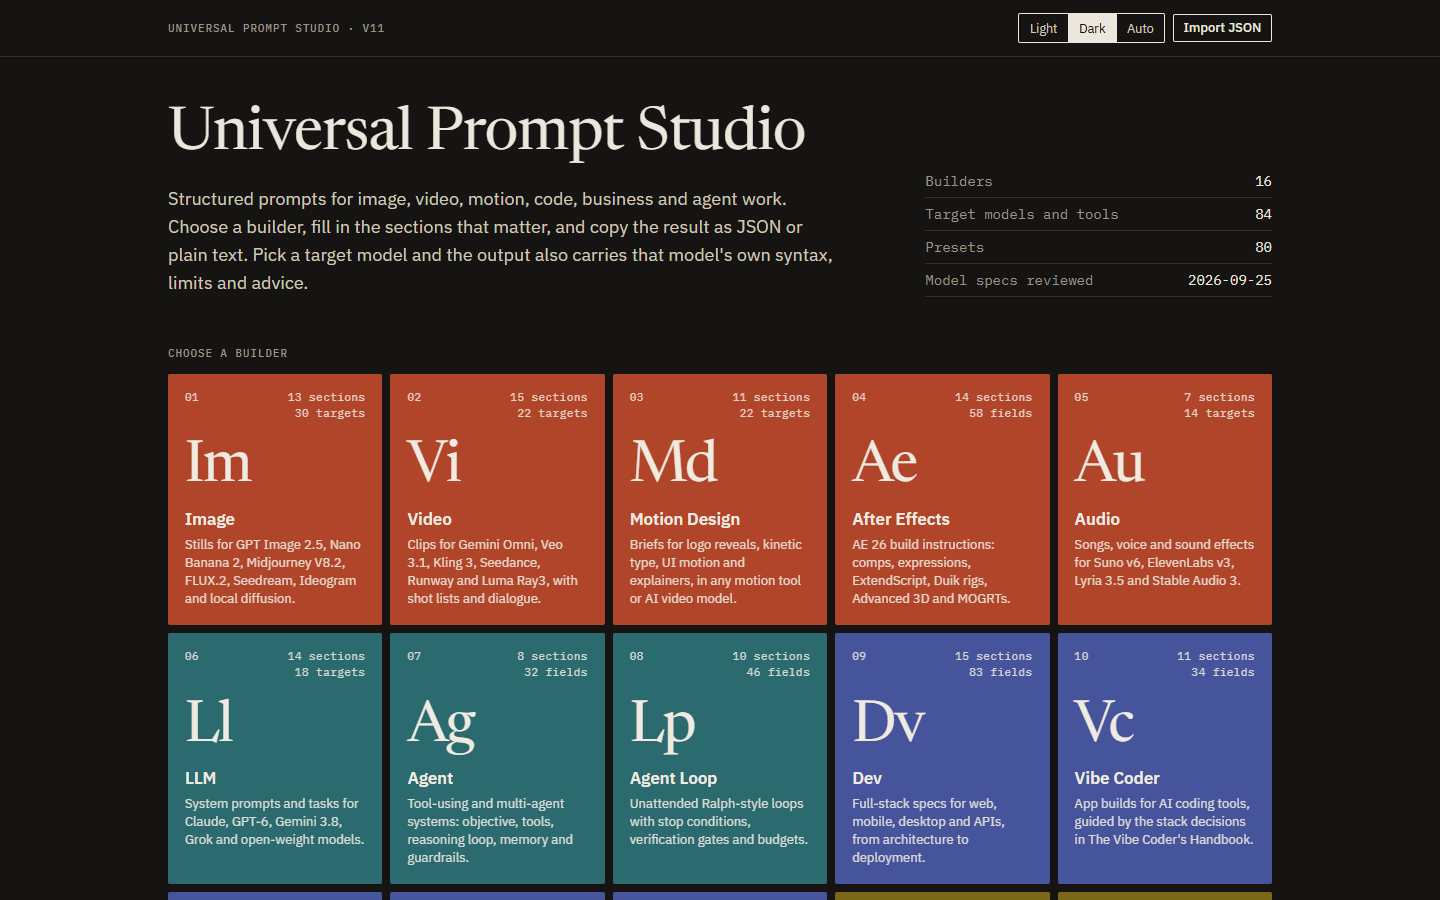
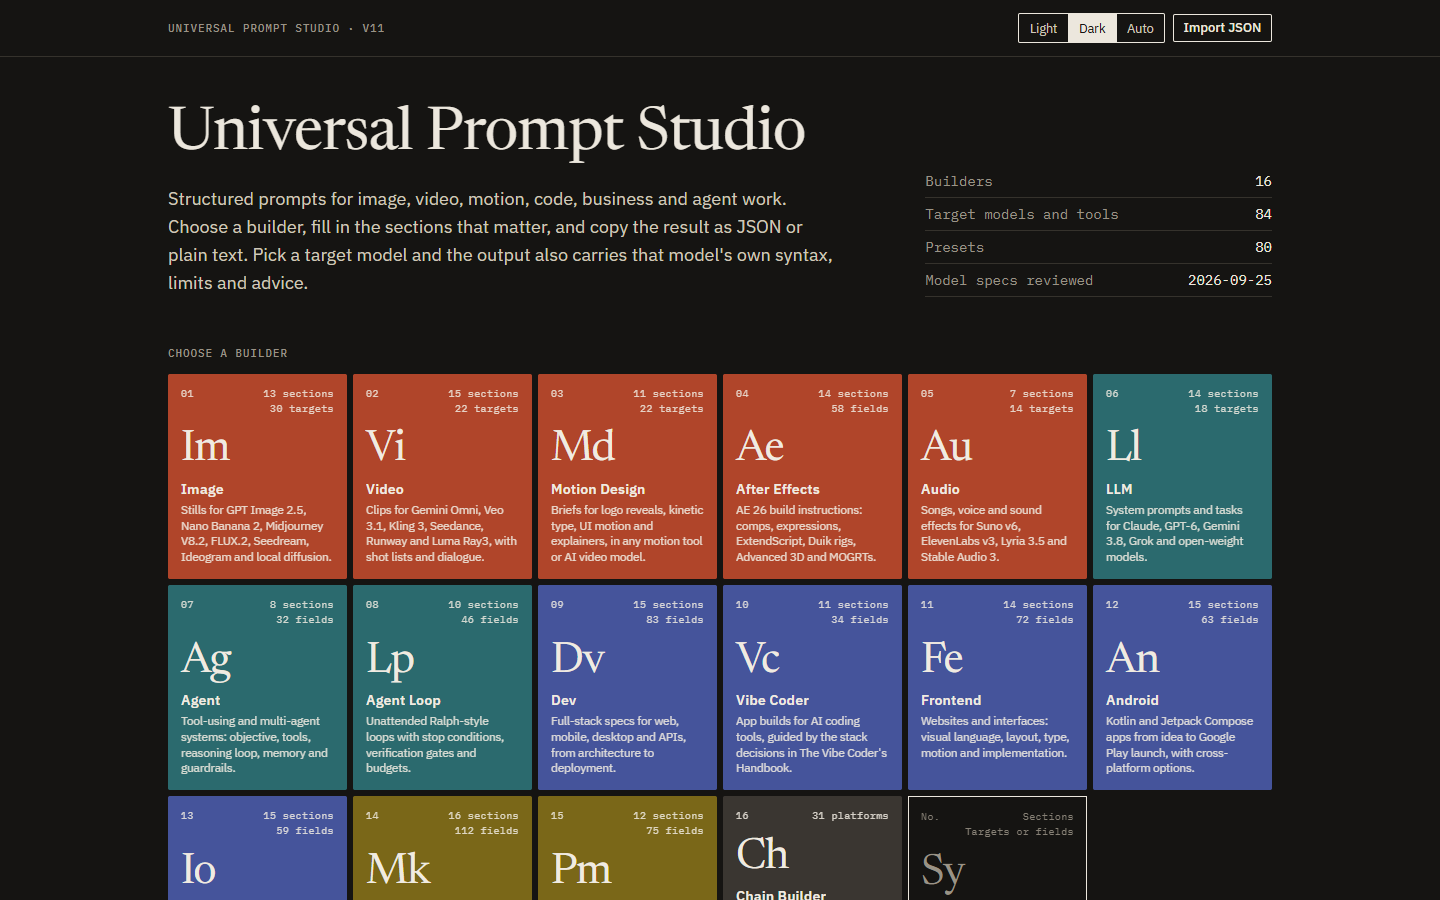
Shrink home tiles by about 25% to fit six per row
Smaller padding, symbol and text; the grid now runs 2 / 4 / 5 / 6 columns
from phone to desktop (never 3), so all builders and the key fit in three
rows on a desktop screen. Refresh the home screenshots.

Claude-Session: https://claude.ai/code/session_0159CoLJ8P1KaLULbN3GiBXz

Changed region(s): [[0.0938, 0.4044, 0.9062, 1.0]]

diff --git a/universal-prompt-studio-v11.html b/universal-prompt-studio-v11.html
@@ -73,12 +73,12 @@
     html.dark, html.dark [data-family] { --accent-soft: color-mix(in srgb, var(--accent) 35%, var(--bg)); --accent-text: color-mix(in srgb, var(--accent) 50%, #ffffff); }
 
     /* Periodic-table tiles on the home screen. Hover inverts to paper; nothing moves. */
-    .tile { position: relative; display: flex; flex-direction: column; min-height: 15.5rem; padding: 0.9rem 1rem 1rem; text-align: left; background: var(--accent); color: var(--on-fam); border: 1px solid var(--accent); border-radius: 2px; cursor: pointer; }
+    .tile { position: relative; display: flex; flex-direction: column; min-height: 11.6rem; padding: 0.7rem 0.75rem 0.8rem; text-align: left; background: var(--accent); color: var(--on-fam); border: 1px solid var(--accent); border-radius: 2px; cursor: pointer; }
     .tile:hover { background: var(--bg); color: var(--ink); border-color: var(--ink); }
     .tile:hover .tile-sym { color: var(--accent-text); }
     @media (max-width: 639px) { .tile { min-height: 9.5rem; } .tile-sym { margin-top: 0.6rem; } }
-    .tile-sym { font-family: Newsreader, Georgia, serif; font-size: 3.6rem; line-height: 1; letter-spacing: -0.03em; margin-top: 1.1rem; }
-    .tile-meta { font-family: "IBM Plex Mono", ui-monospace, monospace; font-size: 11px; letter-spacing: 0.04em; opacity: 0.85; }
+    .tile-sym { font-family: Newsreader, Georgia, serif; font-size: 2.7rem; line-height: 1; letter-spacing: -0.03em; margin-top: 0.8rem; }
+    .tile-meta { font-family: "IBM Plex Mono", ui-monospace, monospace; font-size: 10px; letter-spacing: 0.04em; opacity: 0.85; }
     /* Builder header band in the family hue; controls inside it invert. */
     .band { background: var(--accent); color: var(--on-fam); }
     .band .btn { border-color: var(--on-fam); color: var(--on-fam); }
@@ -4144,7 +4144,7 @@
               )}
 
               <h2 className="kicker mt-12 mb-3">Choose a builder</h2>
-              <ul className="grid grid-cols-2 md:grid-cols-4 xl:grid-cols-5 gap-2">
+              <ul className="grid grid-cols-2 md:grid-cols-4 lg:grid-cols-5 xl:grid-cols-6 gap-1.5">
                 {tileTypes.map((type, i) => {
                   const meta = TYPE_META[type];
                   const [a, b] = tileStats(type);
@@ -4153,8 +4153,8 @@
                       <button type="button" onClick={() => setPromptType(type)} className="tile w-full h-full" aria-label={`${meta.shortTitle} builder`}>
                         <span className="tile-meta flex justify-between gap-2"><span>{pad2(i + 1)}</span><span className="hidden sm:block text-right">{a}<br />{b}</span></span>
                         <span className="tile-sym" aria-hidden="true">{builderSymbol(type)}</span>
-                        <span className="mt-3 font-semibold text-[1.05rem] leading-tight">{meta.shortTitle}</span>
-                        <span className="mt-1.5 text-[13px] leading-snug opacity-90 hidden sm:block">{meta.desc}</span>
+                        <span className="mt-2 font-semibold text-[0.9rem] leading-tight">{meta.shortTitle}</span>
+                        <span className="mt-1 text-[11.5px] leading-snug opacity-90 hidden sm:block">{meta.desc}</span>
                       </button>
                     </li>
                   );
@@ -4163,15 +4163,15 @@
                   <button type="button" onClick={() => setShowChain(true)} className="tile w-full h-full" aria-label="Chain Builder">
                     <span className="tile-meta flex justify-between gap-2"><span>{pad2(tileTypes.length + 1)}</span><span className="hidden sm:block text-right">{CHAIN_TARGETS.length} platforms</span></span>
                     <span className="tile-sym" aria-hidden="true">Ch</span>
-                    <span className="mt-3 font-semibold text-[1.05rem] leading-tight">Chain Builder</span>
-                    <span className="mt-1.5 text-[13px] leading-snug opacity-90 hidden sm:block">Multi-step pipelines where each step's output feeds the next, ending in a translation for any platform.</span>
+                    <span className="mt-2 font-semibold text-[0.9rem] leading-tight">Chain Builder</span>
+                    <span className="mt-1 text-[11.5px] leading-snug opacity-90 hidden sm:block">Multi-step pipelines where each step's output feeds the next, ending in a translation for any platform.</span>
                   </button>
                 </li>
-                <li className="border border-strong p-4 flex flex-col min-h-[9.5rem] sm:min-h-[15.5rem]" aria-label="Key">
+                <li className="border border-strong p-3 flex flex-col min-h-[9.5rem] sm:min-h-[11.6rem]" aria-label="Key">
                   <span className="tile-meta flex justify-between gap-2 text-muted"><span>No.</span><span className="text-right">Sections<br />Targets or fields</span></span>
                   <span className="tile-sym text-muted" aria-hidden="true">Sy</span>
-                  <span className="mt-3 font-semibold text-[1.05rem] leading-tight">Key</span>
-                  <ul className="mt-2 space-y-1 text-[13px] text-ink2">
+                  <span className="mt-2 font-semibold text-[0.9rem] leading-tight">Key</span>
+                  <ul className="mt-1.5 space-y-0.5 text-[11.5px] text-ink2">
                     {families.map(([id, label]) => (
                       <li key={id} data-family={id} className="flex items-center gap-2"><span className="swatch" aria-hidden="true" />{label}</li>
                     ))}
